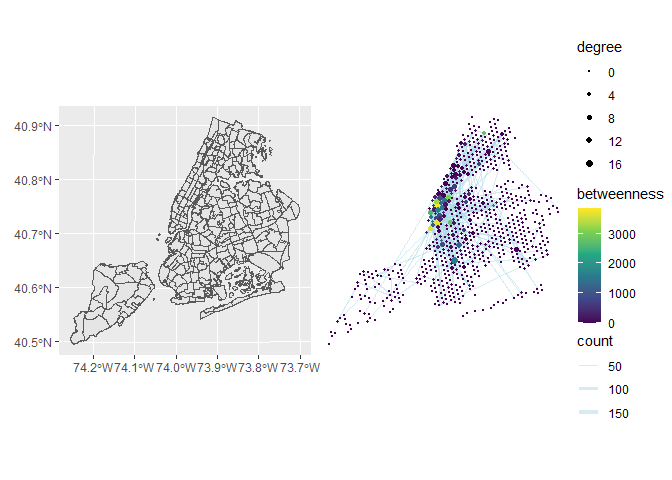
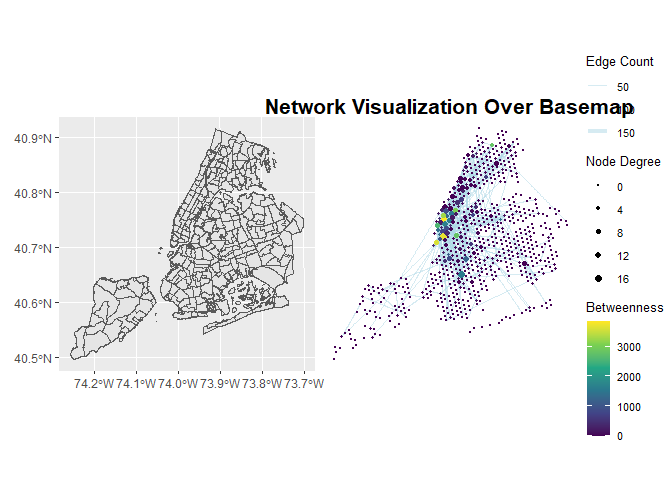
updated visuals

diff --git a/analysis/3_Create_Nodal_Graph/base_graph.md b/analysis/3_Create_Nodal_Graph/base_graph.md
@@ -32,6 +32,7 @@ h3_nyc_data_slim <- h3_nyc_data %>%
   ungroup() %>% 
   filter(h3_cell != home) # Fitler where posts are made in the User's home region
 
+#Creating a list of a cells(nodes) in the data to use as a basis for the node data frame
 all_cells <- h3_nyc_data_slim %>% 
   pivot_longer(cols = c(home, h3_cell)) %>% 
   select(cell_name = value) %>% 
@@ -76,8 +77,9 @@ edges <- edges %>%
   filter(home != "882a1072c7fffff" & h3_cell != "882a1072c7fffff") %>% 
   rename(from = home, to = h3_cell)
 
-nodes %>% write_csv(file = here("data/derived_data/nodes_and_edge_data/nodes"))
-edges %>% write_csv(file = here("data/derived_data/nodes_and_edge_data/edges"))
+#Outputs for edge and node csv files, uncomment to write to disk
+# nodes %>% write_csv(file = here("data/derived_data/nodes_and_edge_data/nodes"))
+# edges %>% write_csv(file = here("data/derived_data/nodes_and_edge_data/edges"))
 
 # Making Graph
 graph <- tbl_graph(nodes = nodes, edges = edges, directed = T)
@@ -87,29 +89,34 @@ graph <-  graph %>%
          betweenness = centrality_betweenness())
 ```
 
-# Ploting the graph
-
 ``` r
-# Plot graph
+# Cleaned visualization - James
 basemap <- ggplot(nynta_proj) +
   geom_sf()
+
 vis_1  <- ggraph(graph, x = lon, y = lat, layout = 'manual') +
-  geom_edge_link(aes(width = count), alpha = 0.5, color = "lightblue")+
+  geom_edge_link(aes(width = count), alpha = 0.5, color = "lightblue") +
   geom_node_point(aes(size = degree, color = betweenness)) + 
-  scale_size(range = c(0.1, 2))+
- # geom_node_text(aes(label = cell_name), size = 3, repel =T) +
-  scale_edge_width(range = c(0.1, 2))+
-  scale_color_viridis_c() +
-  theme_void()
+  scale_size(range = c(0.1, 2), name = "Node Degree") +
+  scale_edge_width(range = c(0.1, 2), name = "Edge Count") +
+  scale_color_viridis_c(name = "Betweenness") +
+  theme_void() +
+  theme(
+    plot.title = element_text(size = 16, face = "bold", hjust = 0.5),
+    legend.position = "right",
+    legend.title = element_text(size = 10),
+    legend.text = element_text(size = 8)
+  )
 
 plot(basemap + vis_1)
 ```
 
 ![](base_graph_files/figure-gfm/combined-basmap-network-graph-1.png)<!-- -->
+
 \#Solo network graph visualization
 
 ``` r
-plot(vis_1)
+plot(vis_1 + labs(title = "Network Visualization Over Basemap"))
 ```
 
 ![](base_graph_files/figure-gfm/solo-network-visualization-1.png)<!-- -->